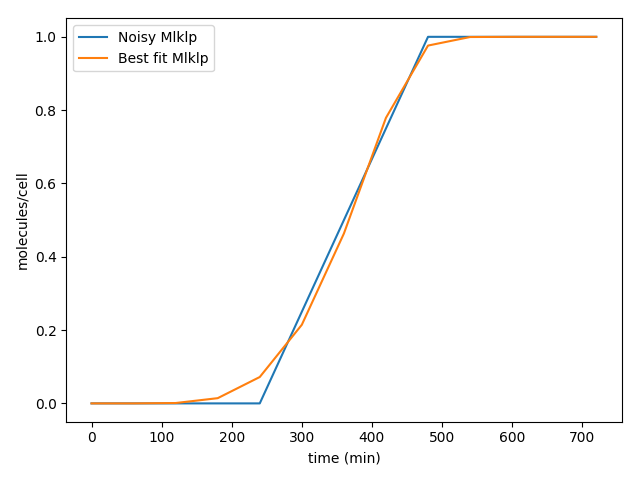
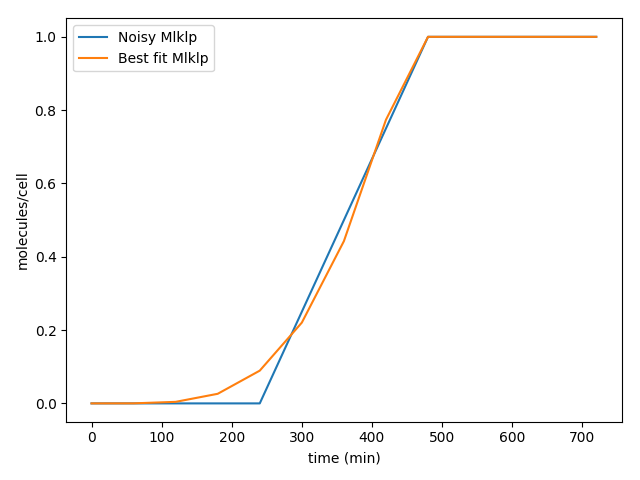
updated model, reran pso calibration.

diff --git a/simplepso/examples/necro_pso.py b/simplepso/examples/necro_pso.py
@@ -145,7 +145,7 @@ def run_example():
     # We also must set bounds. This can be a single scalar or an array of len(start_position)
     optimizer.set_bounds(parameter_range=3)
     optimizer.set_speed(speed_min=-.25, speed_max=.25)
-    optimizer.run(num_particles=50, num_iterations=100)
+    optimizer.run(num_particles=50, num_iterations=500)
     print(optimizer.best)
     # print('whatever')
     if plot:
